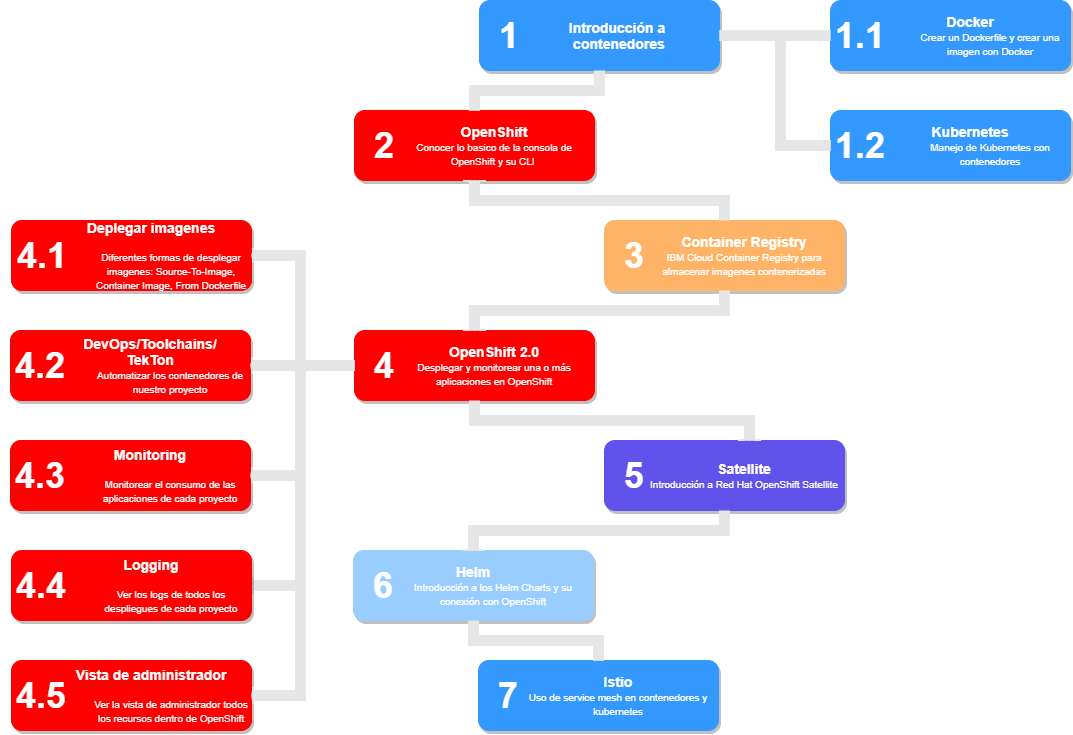
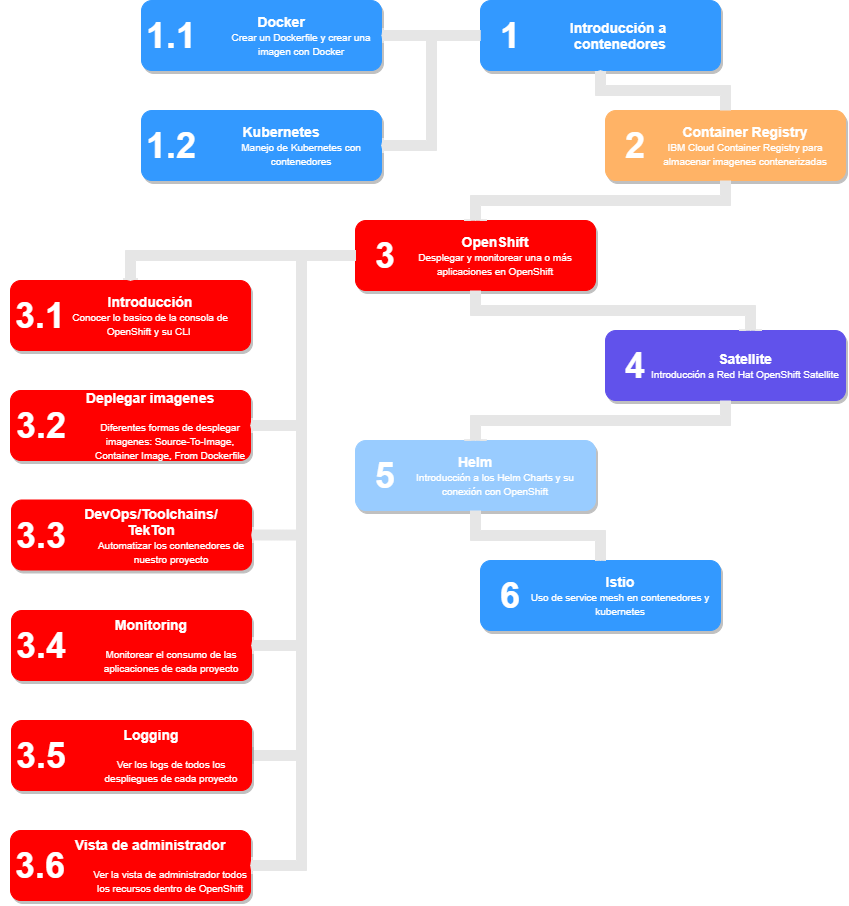
Terminada la leccion de Container Registry y cambio de diagrama roadmap

diff --git a/pages/2/container_registry.md b/pages/2/container_registry.md
@@ -1,0 +1,155 @@
+# Container Registry
+
+![dojo logo](/images/logo_dojo.png)
+
+---
+
+
+
+* [← Volver al índice](/README.md#indice)
+---
+  
+
+## *Indice de la sección:*
+
+* ## **Container Registry**
+    
+    * [¿Qué es un *Container Repository*?](#¿qué-es-un-container-repository?)
+    * [¿Qué es un *Container Registry*?](#¿qué-es-un-container-registry?)
+    * [IBM Cloud Container Registry Service](#ibm-cloud-container-registry-service)
+    * [Pongámoslo en práctica](#pongámoslo-en-práctica)
+      1. [Conectarnos con IBM Cloud CLI y el plugin container-registry](#1.-conectarnos-con-ibm-cloud-cli-y-el-plugin-container-registry)
+      2. [Crear un *namespace*](#2.-crear-un-namespace)
+      3. [Conectar **Docker** con **IBM Cloud Container Registry**](#3.-conectar-docker-con-ibm-cloud-container-registry)
+      4. [Subir la imagen](#4.-subir-la-imagen)
+    
+
+---
+
+## ¿Qué es un *Container Repository*?
+
+El Container Repository o repositorio de imagenes es usado para almacenar distintas versiones de una imagen contenerizada (*container image*) para distribución y despliegue. Podemos hacer *push* o *pull* de imagenes hacia o desde un repositorio.
+
+---
+
+## ¿Qué es un *Container Registry*?
+
+Es un servicio que proporciona una colección de repositorios en donde podemos almacenar imagenes. Pueden ser alojados de forma pública o privada.
+
+**IBM Cloud Container Registry Service** proporciona un registro de imagenes (*image registry*) **privado**, **altamente disponible**, **escalable**, **encriptado** y **multi-tenant** que es alojado y administrado por IBM. Podemos empezar a usar el IBM Cloud Container Registry con sola configurar nuestro propio espacio de nombre (*namespace*) y haciendo *push* a una imagen contenerizada a dicho espacio.
+
+---
+
+## IBM Cloud Container Registry Service
+
+Una imagen de Docker es la base para todo contenedor que es creado. Generalmente, las imagenes se almacenan en registros que pueden accederse de manera pública (*public regitry*) o configurado para el acceso de un grupo limitado de usuarios (*private registry*).
+
+Con IBM Cloud Container Registry, solo aquellos usuarios que tengan acceso a nuestra cuenta de IBM Cloud podrán acceder a nuestras imagenes. Además, cuando hacemos un *push* de nuestras imagenes hacia IBM Cloud Container Registry, tenemos el beneficio de contar con las funciones integradas de *Vulnerability Advisor* que busca potenciales problemas de seguridad y vulnerabilidad.
+
+### Propiedades de IBM Cloud Container Registry:
+
+* **Registro privado altamente disponible y escalable**
+    * Podemos hacer *push* a imagenes privadas para luego ejecutarlas en otros servicios o ambientes de IBM Cloud, como puede ser **IBM CLoud Kubernetes Service** (que lo vimos en la sección anterior), **Red Hat OpenShift Kubernetes Service** (que lo veremos en la siguiente sección) entre otros.
+    * Las imagenes son chequeadas por pontenciales problemas de seguridad regularmente para tener control total y podamos tomar decisiones informadas acerca de nuestros despliegues.
+
+* **Cumplimiento de seguridad de imagen con *Vulnerability Advisor***
+    * Escaneos automáticos a las imagenes dentro de nuestros espacios de nombre.
+    * Podremos evaluar recomendaciones para corregir potenciales vulnerabilidades y proteger nuestros contenedores de estar comprometidos.
+
+* **Quota limite para almacenamiento y *pull traffic***
+    * Nos podemos beneficiar de una cantidad de espacio gratis (*free quota*) para almacenamiento y *pull traffic* de nuestras imagenes privadas.
+    * Podemos tambien configurar los limites de quota por mes para evitar excederse de los niveles de pagos preferidos.
+
+IBM Cloud Container Registry expone una REST API para administrar todas las funciones del registro, incluyendo especios de nombre, imagenes, reportes de vulnerabilidades, quotas y control de acceso. Esta API puede ser totalmente controlada por la IBM Cloud CLI (*usada en secciones anteriores*) o controlada con funcionalidades básicas en el UI de IBM Cloud.
+
+---
+
+## Pongámoslo en práctica
+
+### Ahora que ya vimos bastante de teoría, junto con lo realizado en los labs de secciones anteriores, vamos a subir nuestra imagen que tenemos en Docker al IBM Cloud Container Registry.
+
+<br>
+
+## 1. Conectarnos con IBM Cloud CLI y el plugin container-registry
+
+Lo primero que debemos hacer es asegurarnos que, dentro de la CLI de IBM Cloud que ya usamos previamente, tengamos instalado el plugin para administrar nuestros servicio de Container Registry. Para ello vamos a listar los plugins instalados actualmente:
+```console
+$ ibmcloud plugin list
+```
+Debería aparecer el siguiente cuadro (*container-registry*)
+<p align="center">
+  <img width="400" src="../../images/2/cr-plugin.png">
+</p>
+
+En caso que no este instalado, usaremos el comando de *install* y en caso contrario, el comando de *update*:
+
+* comando *install*:
+    ```console
+    $ ibmcloud plugin install container-registry
+    ```
+* comando *update*:
+    ```console
+    $ ibmcloud plugin update container-registry
+    ```
+
+Una vez completado, iniciamos sesión en IMB Cloud desde la CLI como en la sección anterior:
+```console
+$ ibmcloud login
+```
+
+## 2. Crear un *namespace*
+
+Ahora que estamos dentro de IBM Cloud, y tenemos el plugin de container registry instalado, podemos empezar a usar el servicio, que, como vimos en la parte teórica de esta sección, se logra creando un primer nombre de espacio (*namespace*):
+```console
+$ ibmcloud cr namespace-add <nombre-del-namespace>
+```
+
+> **Nota:** Los *namespaces* o espacios de nombre son unicos dentro de una misma región. Es decir que podemos usar el mismo nombre de *namespace* en cada región, siempre y cuando en dicha región ningún otrousuario haya creado un *namespace* con ese nombre.
+
+Podemos verificar que se creó correctamente listando todos los espacios de nombre:
+```console
+$ ibmcloud cr namespace-list
+```
+
+## 3. Conectar **Docker** con **IBM Cloud Container Registry**
+
+Lo que haremos será conectar el daemon de Docker con el Container Registry de IBM Cloud para poder subir la imagen desde Docker, directo a nuestro nuevo *namespace* recientemente creado (recordar que debemos estar logueados en Docker con `$ docker login`):
+```console
+$ ibmcloud cr login
+
+Iniciando sesión en 'registry.ng.bluemix.net'...
+Se ha iniciado sesión en 'registry.ng.bluemix.net'.
+Iniciando sesión en 'us.icr.io'...
+Se ha iniciado sesión en 'us.icr.io'.
+
+OK
+```
+
+## 4. Subir la imagen
+
+Para esta parte usaremos la imagen que subimos en la sección de Docker (`<usuario>/lab-1:0.1`), en caso de no recordarla, podemos usar el comando `$ docker images` que nos listará todas las imagenes que tenemos creadas con su versión correspondiente.
+
+Entonces, lo que haremos primero es indicar el namespace y repositorio en los que vamos a subir la imagen en Container Registry (para que Docker identifique a Container Registry usaremos la dirección identificadora de IBM Container Registry - `*us.icr.io*`):
+```console
+$ docker tag <usuario>/lab-1:0.1 us.icr.io/<nombre-del-namespace>/<nombre-del-repo>:<versión>
+```
+> **Nota:** Recordar que `<nombre-del-namespace>` es el mismo con el que creamos el *namespace* en el paso 2 y `<nombre-del-repo>` es el nombre que le querramos dar a nuestro nuevo repositorio en caso de no tener uno dentro de dicho *namespace*.
+
+Ahora subamos la imagen al registro:
+```console
+$ docker push us.icr.io/<nombre-del-namespace>/<nombre-del-repo>:<versión>
+```
+
+Podemos verificar que se subió correctamente con el siguiente comando:
+```console
+$ ibmcloud cr image-list
+```
+
+### Con esto finalizamos el lab y lección de Container Registry. Avancemos a la siguiente sección... **OpenShift**
+
+
+---
+
+* [→ Siguiente Sección (OpenShift)](../3/openshift.md#openshift)
+
+* [← Volver al índice](/README.md#indice)

diff --git a/pages/1/kubernetes.md b/pages/1/kubernetes.md
@@ -6,7 +6,7 @@
 
 
 
-* [← Volver al índice](/README.md)
+* [← Volver al índice](/README.md#indice)
 ---
   
 
@@ -18,8 +18,8 @@
         * [¿Qué es kubernetes?](#¿qué-es-kubernetes?)
         * [Objetos básicos de Kubernetes](#objetos-básicos-de-kubernetes)
         * [Pongámoslo en práctica](#pongámoslo-en-práctica)
-            1. [Crear Kubernetes cluster](#crear-kubernetes-cluster)
-            2. [Crear un Deployment](#crear-un-deployment)
+          1. [Crear Kubernetes cluster](#crear-kubernetes-cluster)
+          2. [Crear un Deployment](#crear-un-deployment)
 
 ---
 
@@ -230,11 +230,11 @@ Events:
 
 Además de esto, podemos entrar al *dashboard* de Kubernetes desde IBM Cloud. ¡Invitamos a que exploren esa área!
 
-### Con esto finalizamos el lab y sección de Kubernetes, además de la primera lección de *Introducción a contenedores*. Avancemos a la siguiente sección... **OpenShift**
+### Con esto finalizamos el lab y sección de Kubernetes, además de la primera lección de *Introducción a contenedores*. Avancemos a la siguiente sección... **Container Registry**
 
 
 ---
 
-* [→ Siguiente Sección (OpenShift)](../2/openshift.md#openshift)
+* [→ Siguiente Sección (Container Registry)](../2/container_registry.md#container-registry)
 
-* [← Volver al índice](/README.md)
+* [← Volver al índice](/README.md#indice)

diff --git a/pages/1/docker.md b/pages/1/docker.md
@@ -8,7 +8,7 @@
 
 ### Hablaremos un poco sobre la definición de un contenedor, Docker, DockerHub, Docker images, y cómo crearlas.
 
-* [← Volver al índice](/README.md)
+* [← Volver al índice](/README.md#indice)
 ---
   
 
@@ -22,7 +22,6 @@
         * [DockerHub](#dockerhub)
         * [Container Registry IBM](#container-registry-ibm)
         * [Pongámoslo en práctica](#pongámoslo-en-práctica)
-        
           1. [Crear Dockerfile](#1.-crear-dockerfile)
           2. [Crear imagen](#2.-crear-imagen)
           3. [Crear contenedor](#3.-crear-contenedor)
@@ -237,4 +236,4 @@ $ docker push <usuario-docker>/<nombre-del-repo>
 
 * [→ Siguiente Sección (Kubernetes)](kubernetes.md#kubernetes)
 
-* [← Volver al índice](/README.md)
+* [← Volver al índice](/README.md#indice)

diff --git a/pages/3/openshift.md b/pages/3/openshift.md
@@ -6,7 +6,7 @@
 
 
 
-* [← Volver al índice](/README.md)
+* [← Volver al índice](/README.md#indice)
 ---
   
 
@@ -26,4 +26,4 @@
 
 
 
-* [← Volver al índice](/README.md)
+* [← Volver al índice](/README.md#indice)
